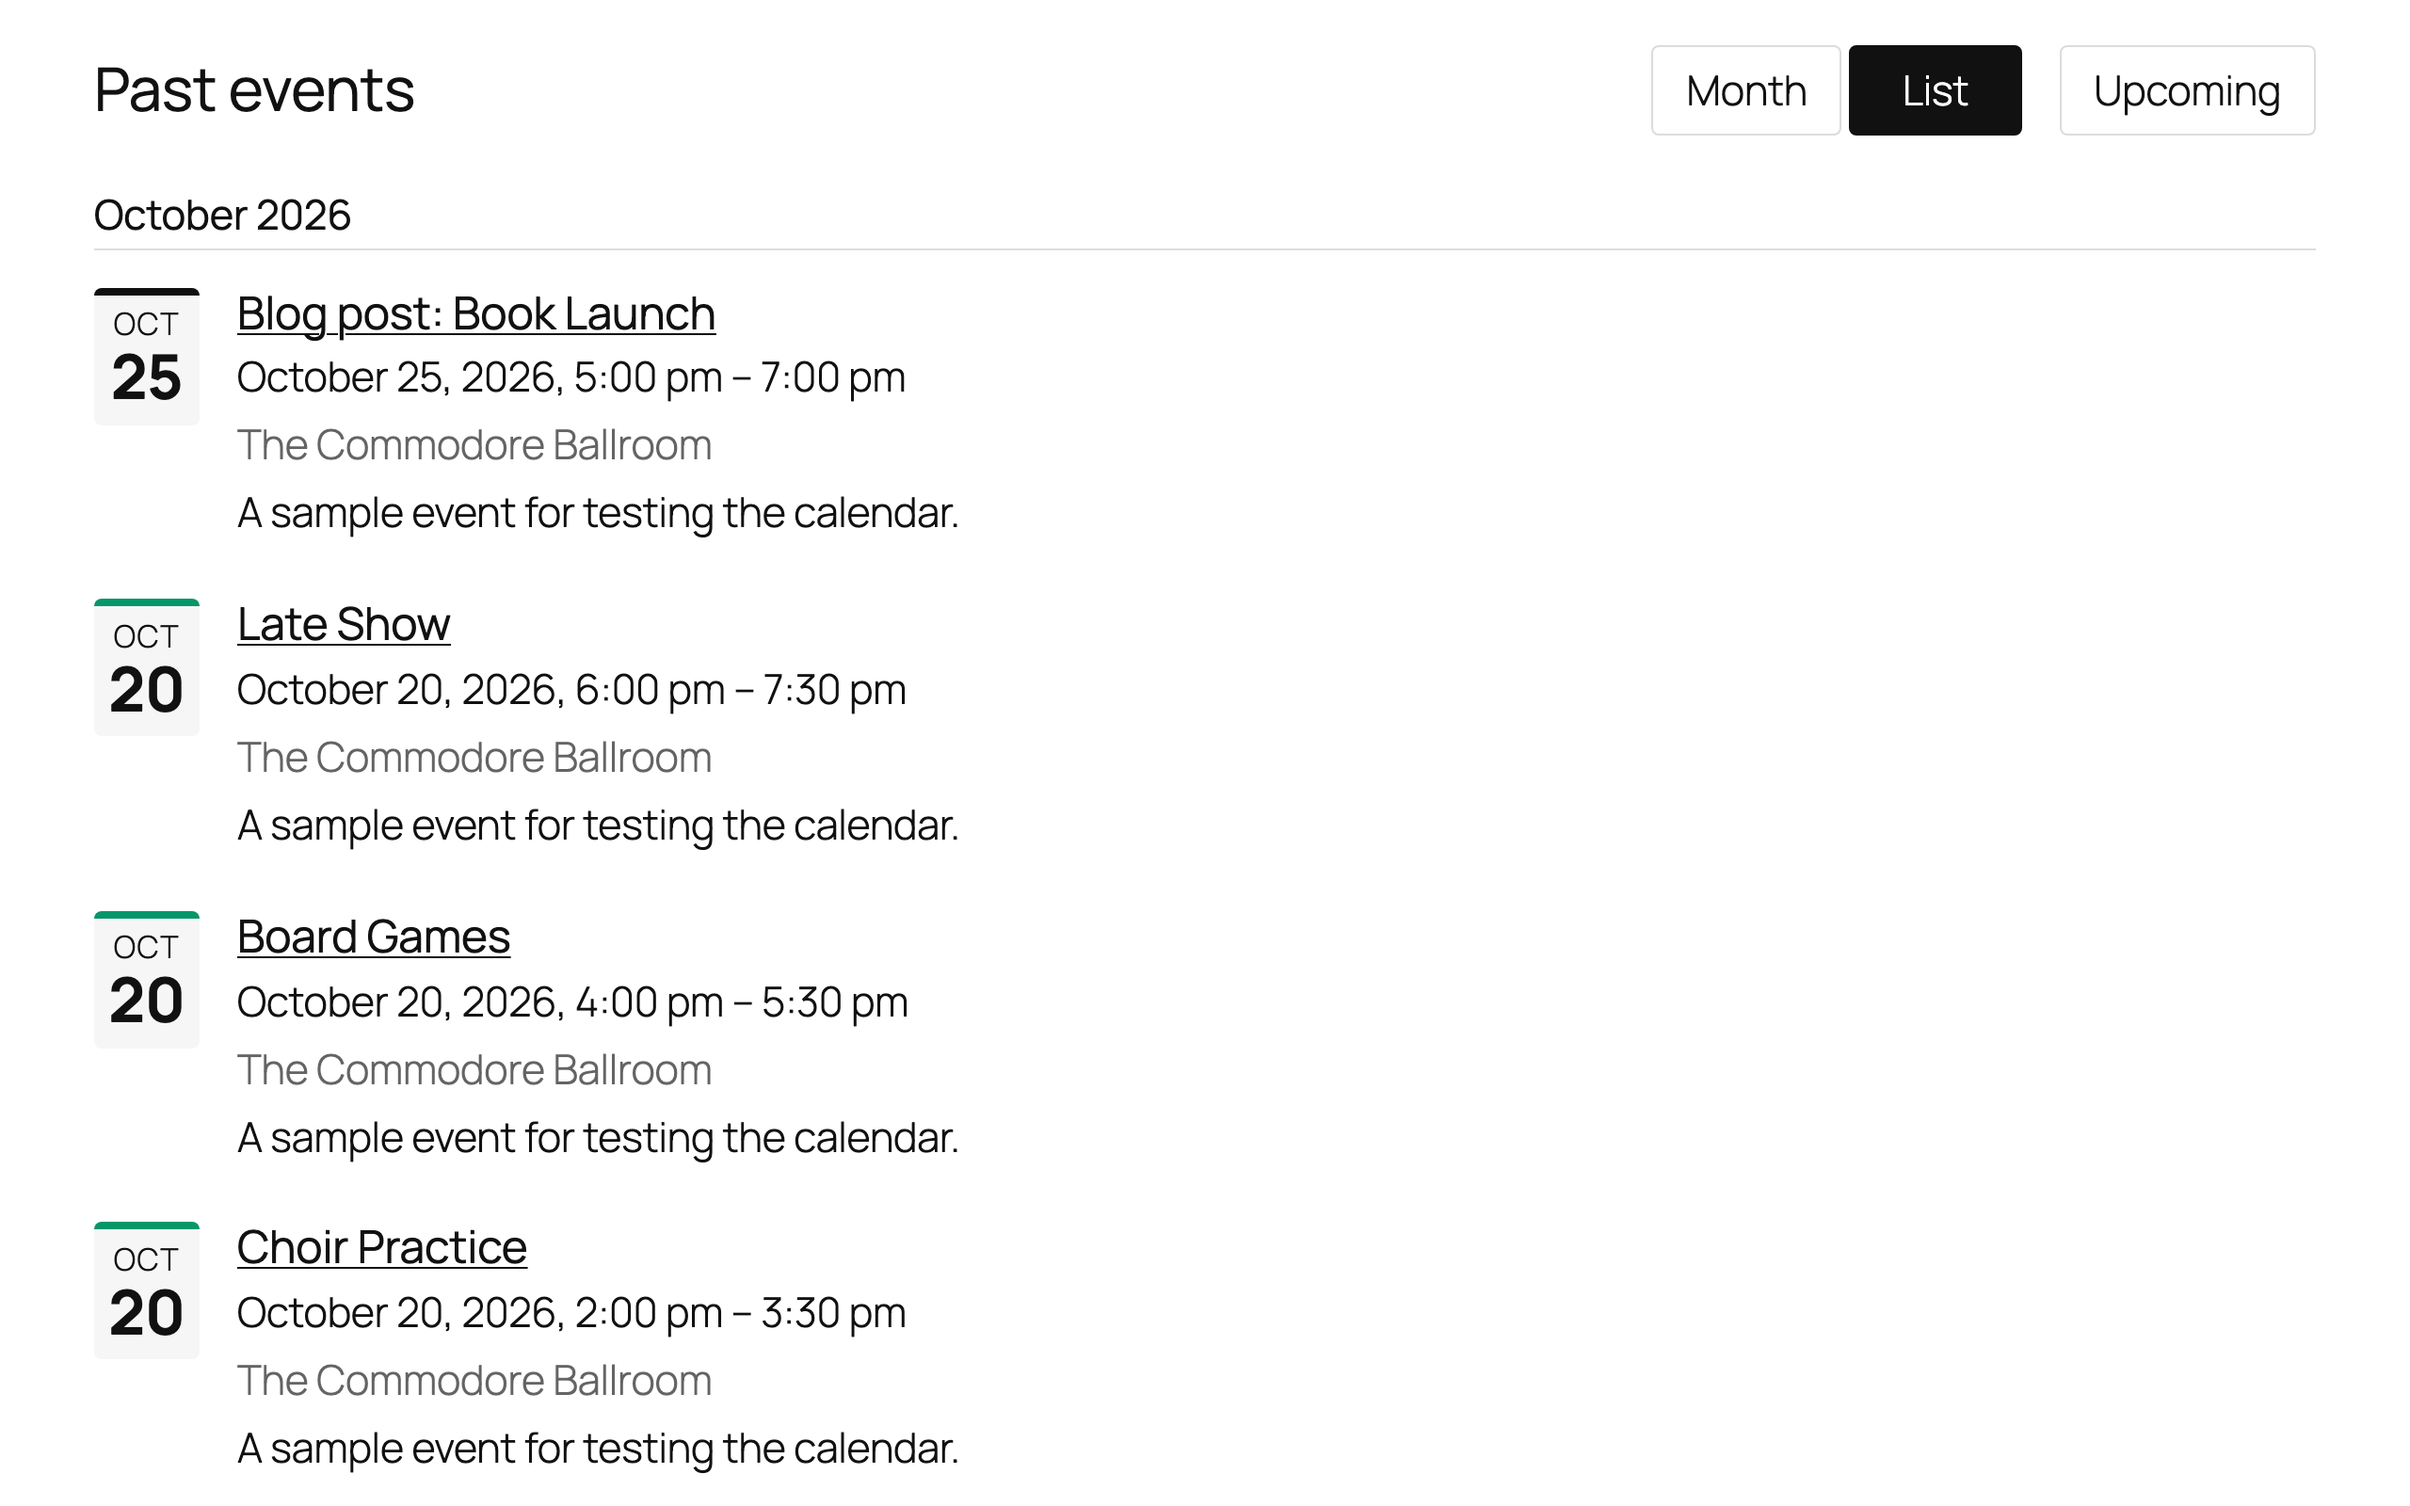
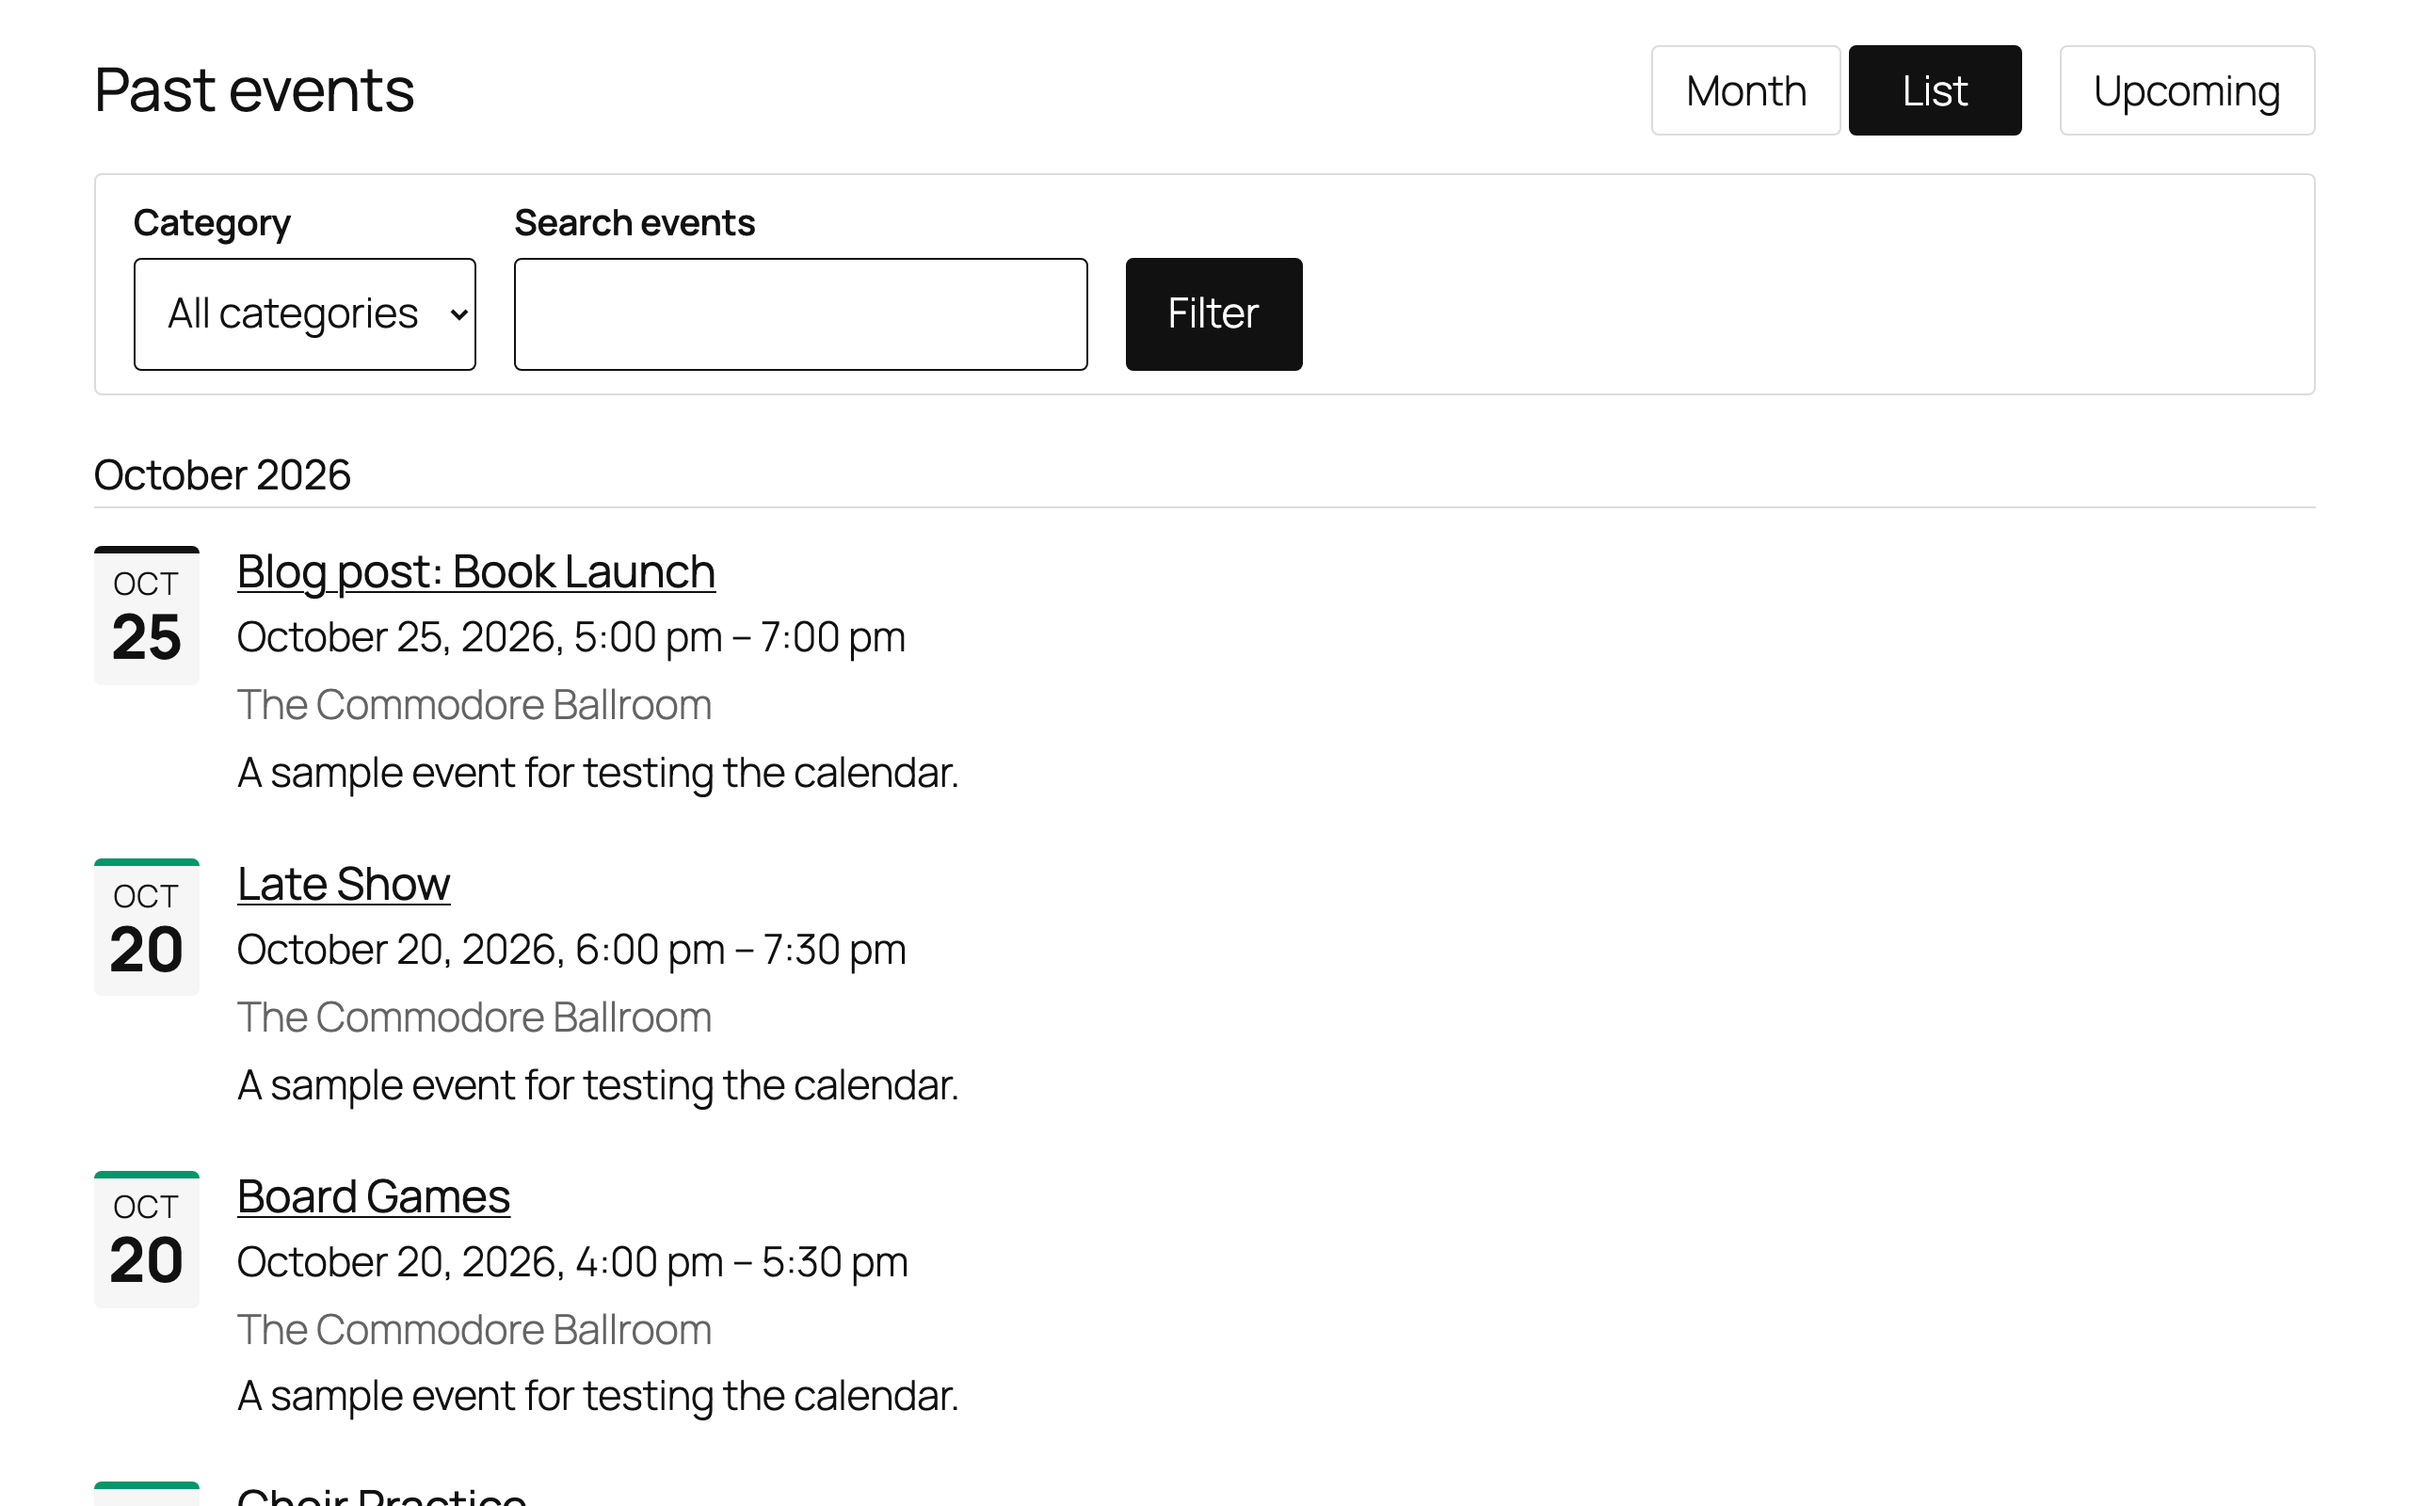
Add RSVP, ticket, and waitlist screenshots and update the roadmap status
- The README only said Phase 1 was done; RSVP, Tickets, and waitlists have
  shipped since, so the status is now a table of done / in progress / next.
- Screenshots 7-9 show the RSVP form, ticket types with a sold-out type, and
  a full event offering its waitlist. Screenshots 2-6 are recaptured from the
  current code.
- The drawn images had text below WCAG AA contrast (white on coral, 2.57:1);
  they now use dark text on coral and darker green and coral where text sits
  on them. The rule is noted in .wordpress-org-src/README.md.
- capture.mjs matched one .oe-editor-panel, but the editor now has Event,
  RSVP, and Tickets panels, so it targets the first.

Changed region(s): [[0.0312, 0.125, 0.4062, 1.0], [0.4688, 0.1562, 0.5625, 0.25], [0.2188, 0.125, 0.3125, 0.1562]]

diff --git a/.wordpress-org-src/screenshot-1.html b/.wordpress-org-src/screenshot-1.html
@@ -2,7 +2,7 @@
 <html><head><meta charset="utf-8"><title>OpenEvents</title>
 <style>
 @font-face { font-family: Inter; src: url(https://cdn.jsdelivr.net/npm/@fontsource-variable/inter/files/inter-latin-wght-normal.woff2) format('woff2'); font-weight: 100 900; }
-:root { --blue: #1D3A8A; --coral: #FF7A59; --ink: #1E1E1E; --muted: #50575e; --bg: #F3F5FB; }
+:root { --blue: #1D3A8A; --coral: #FF7A59; --coral-text: #C2410C; --ink: #1E1E1E; --muted: #50575e; --bg: #F3F5FB; }
 * { box-sizing: border-box; margin: 0; }
 html, body { width: 1280px; height: 800px; overflow: hidden; background: var(--bg); font-family: Inter, sans-serif; color: var(--ink); }
 .head { position: absolute; left: 64px; top: 48px; width: 1152px; display: flex; align-items: flex-end; justify-content: space-between; }
@@ -22,7 +22,7 @@ html, body { width: 1280px; height: 800px; overflow: hidden; background: var(--b
 .phone img { width: 100%; display: block; }
 .chips { position: absolute; left: 64px; bottom: 34px; display: flex; gap: 10px; }
 .chips span { background: #fff; border: 1px solid #DCE2F0; border-radius: 99px; padding: 7px 14px; font-size: 13px; font-weight: 600; }
-.chips span b { color: var(--coral); }
+.chips span b { color: var(--coral-text); }
 </style></head>
 <body>
 <div class="head">

diff --git a/.wordpress-org-src/banner.html b/.wordpress-org-src/banner.html
@@ -17,10 +17,10 @@ p { margin-top: 10px; color: #fff; font-size: 16px; line-height: 22px; font-weig
 .card h3 { font-size: 13px; font-weight: 800; color: var(--ink); margin-bottom: 8px; }
 .grid { display: grid; grid-template-columns: repeat(7, 1fr); gap: 3px; }
 .grid span { height: 22px; border-radius: 3px; background: #EEF2FB; font-size: 8px; color: #5b6170; padding: 2px 3px; }
-.grid span.e { background: var(--coral); color: #fff; font-weight: 700; }
+.grid span.e { background: var(--coral); color: var(--ink); font-weight: 700; }
 .grid span.m { background: #7c3aed; color: #fff; font-weight: 700; }
-.grid span.g { background: #059669; color: #fff; font-weight: 700; }
-.ticket { position: absolute; right: 250px; bottom: 26px; background: var(--coral); color: #fff; border-radius: 8px; padding: 8px 12px; font-size: 11px; font-weight: 800; box-shadow: 0 8px 18px rgba(0,0,0,.25); transform: rotate(4deg); }
+.grid span.g { background: #047857; color: #fff; font-weight: 700; }
+.ticket { position: absolute; right: 250px; bottom: 26px; background: var(--coral); color: var(--ink); border-radius: 8px; padding: 8px 12px; font-size: 11px; font-weight: 800; box-shadow: 0 8px 18px rgba(0,0,0,.25); transform: rotate(4deg); }
 </style></head>
 <body>
 <div class="halo"></div>

diff --git a/README.md b/README.md
@@ -27,12 +27,25 @@ Requires WordPress 7.1+ and PHP 8.2+.
 | Event details: date, venue with map link, organizer, cost, and Add to Google Calendar / .ics | List view, grouped by month, with past and upcoming events |
 | ![Event panel in the block editor sidebar](.wordpress-org/screenshot-4.png) | ![Setup wizard asking where events should live](.wordpress-org/screenshot-5.png) |
 | Event panel in the editor: dates, timezone, venue and organizers (type a name to create one), cost | Setup wizard: a dedicated Events post type, existing post types, or both |
-| ![Module settings](.wordpress-org/screenshot-6.png) | |
-| Settings, built on the WordPress Design System; modules switch features on and off | |
+| ![Module settings](.wordpress-org/screenshot-6.png) | ![RSVP form on an event page](.wordpress-org/screenshot-7.png) |
+| Settings, built on the WordPress Design System; modules switch features on and off | RSVP: places left, guests, and a "not going" option. Works without JavaScript and on cached pages |
+| ![Ticket types on an event page](.wordpress-org/screenshot-8.png) | ![A full event offering its waitlist](.wordpress-org/screenshot-9.png) |
+| Tickets: several types per event with price, capacity, and sale window; pay at the door, Stripe, or PayPal | Waitlist: a full event takes names and confirms them automatically when a place frees up |
 
 ## Status
 
-Phase 1 (core foundation) is done. See [docs/ROADMAP.md](docs/ROADMAP.md) for what comes next.
+| Area | Status |
+| --- | --- |
+| **Phase 1: core foundation** (events on any post type, venues, organizers, category colours, month/list calendar, templates, REST, Abilities, iCal, WP-CLI) | ✅ Done |
+| **RSVP**: capacity, guests, deadlines, private change/cancel links, attendee list with CSV export and check-in | ✅ Done |
+| **Tickets**: several ticket types per event, pay at the door, Stripe, PayPal, refunds, order emails | ✅ Done |
+| **Waitlists** for RSVPs (automatic promotion) and ticket types (time-limited offers), with an organiser screen | ✅ Done |
+| Calendar filter and search, event popups, category badges, per-category and per-post-type templates | ✅ Done |
+| **TEC and Event Tickets importer** (events, venues, organizers, categories, RSVPs, tickets, attendees) | 🚧 In progress |
+| Google Calendar import (iCal feeds) | Next |
+| Recurring events, ticket QR codes and door check-in, Pro views (week, photo, map) | Planned |
+
+Details and the order of work are in [docs/ROADMAP.md](docs/ROADMAP.md).
 
 ## Development
 

diff --git a/docs/ROADMAP.md b/docs/ROADMAP.md
@@ -54,7 +54,7 @@ Done in Phase 2 groundwork:
 - ✅ PHPUnit integration suite with query-count budgets; Playwright suite against Playground; GitHub Actions.
 - ✅ Playground demo link, screenshots, and WordPress.org assets, rebuilt on every push.
 
-## Phase 3: TEC parity and migration
+## Phase 3: TEC parity and migration (importer in progress)
 
 - **TEC importer** (admin screen and `wp openevents import-tec`), following `docs/research/tec-data-model.md`:
   - Batched and resumable. It runs with Sync suspended, then rebuilds.
@@ -63,7 +63,7 @@ Done in Phase 2 groundwork:
   - Optional 301 redirects from old permalinks.
 - **Event Tickets importer** (RSVP and Tickets Commerce), following `docs/research/event-tickets-data-model.md`. Keeps security codes.
 - CSV import (TEC column names accepted).
-- Day view; keyword search and category/venue filter bar on the calendar block.
+- Day view; venue filter on the calendar block (category filter and keyword search are done).
 - Event status: scheduled, cancelled, postponed (with a reason).
 - `Event` JSON-LD with Offer, Place, and Organizer.
 - Venue map embed (OpenStreetMap; Google optional).

diff --git a/.wordpress-org-src/README.md b/.wordpress-org-src/README.md
@@ -9,7 +9,13 @@ Sources for the images in `.wordpress-org/`. Not shipped in the plugin.
 node .wordpress-org-src/capture.mjs              # writes .wordpress-org-src/captures/*.png
 ```
 
-Screenshots 2–6 are copies of `single`, `list`, `editor`, `setup`, and `settings`.
+Screenshots 2–9 are copies of `single`, `list`, `editor`, `setup`, `settings`, `rsvp`, `tickets`, and `waitlist` (run from this folder):
+
+```sh
+i=2; for n in single list editor setup settings rsvp tickets waitlist; do cp captures/$n.png ../.wordpress-org/screenshot-$i.png; i=$((i+1)); done
+```
+
+The drawn images keep text at WCAG AA contrast (4.5:1): dark text on the coral, `#047857` for green fills, `#C2410C` for coral text on white.
 
 No plugin icon yet: branding is still being decided.
 
